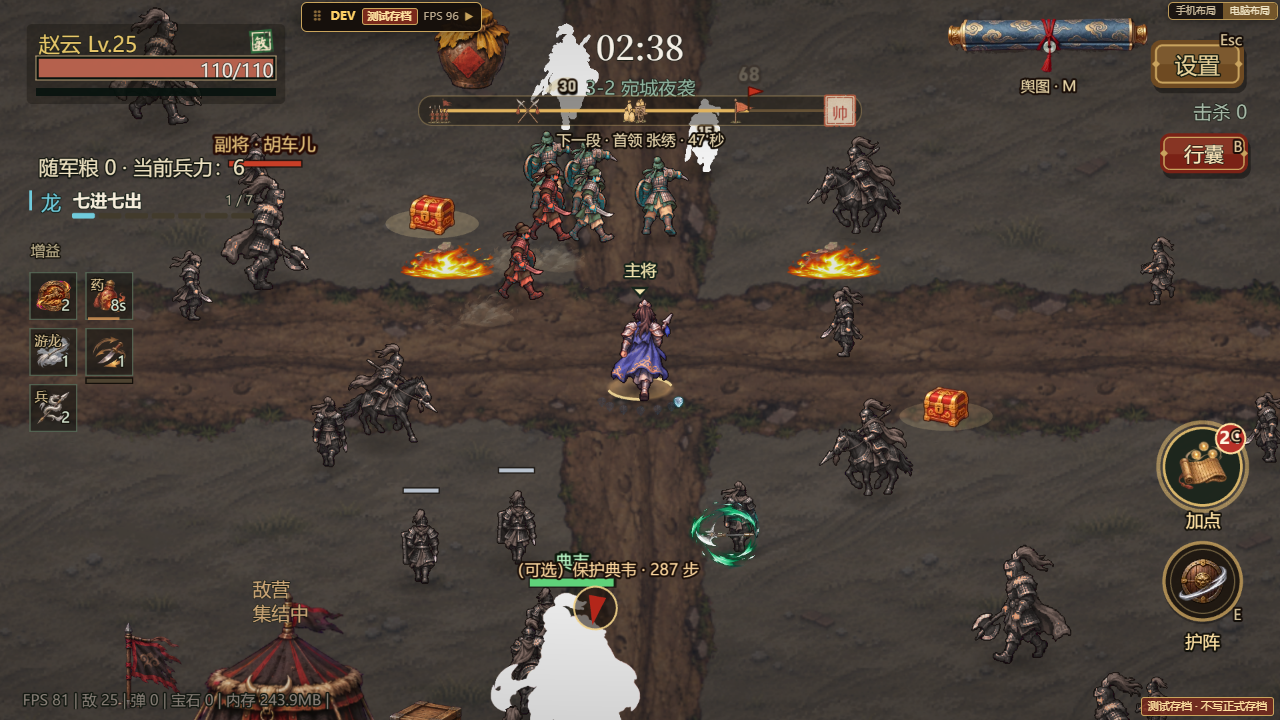
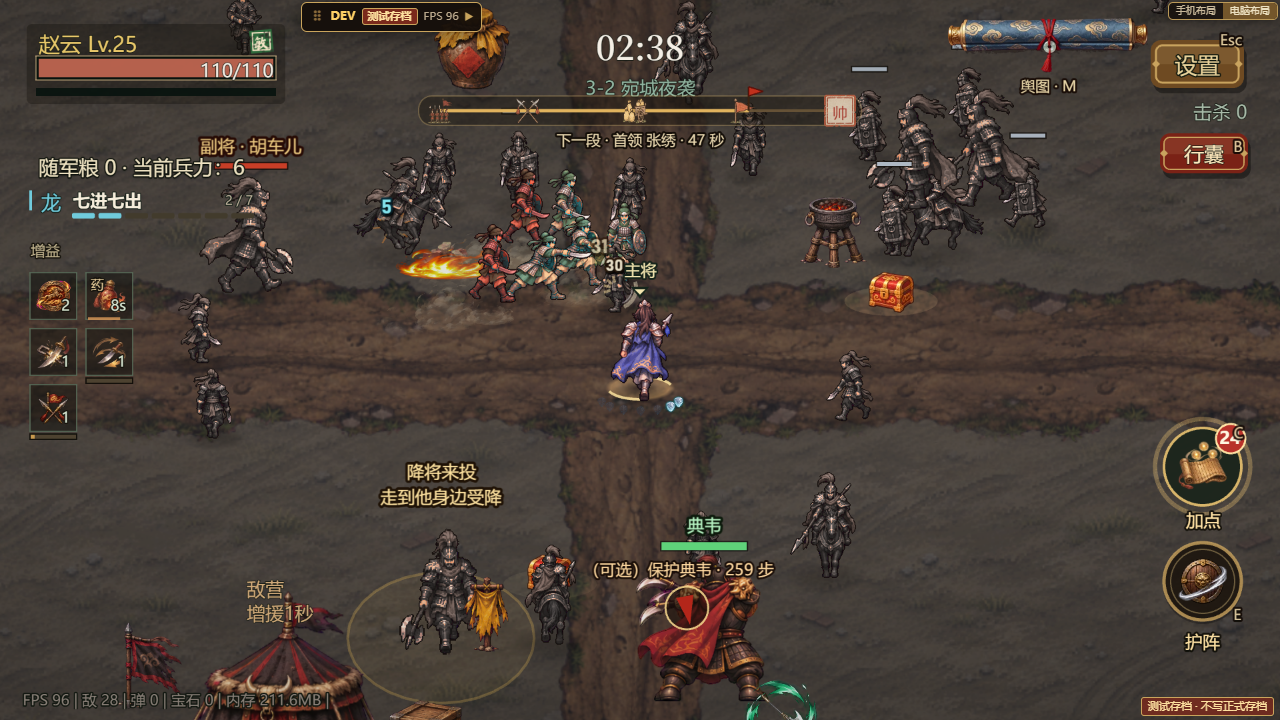
五段关 P2 战场机缘（用户批准「可以加入战场机缘」）：每关 2 次关内事件，做完弹「战场机缘 · 本关有效」三选一 - 精锐段 20 秒后「敌军粮车」（3 名守卫，站进圈里 3 秒夺下）；事件段 8 秒后「义军被围（打掉 6 名围兵，义军随你冲阵 30 秒）/ 降将来投（走到身边）/ 烽燧（站 3 秒点燃）」之一；40 秒没理会「机缘已失」 - 地上互动圈 + 进度弧、营寨道具图（粮车 + 粮袋 / 火盆 / 军旗）、降将用本章精锐图；军令表挂「机缘 · X」，屏外有箭头 - 三选一 7 种本关增益（士气如虹 / 疾行 / 固本培元 / 火攻之机 / 军令如山 / 披坚 / 鹰眼，同一张本关

diff --git a/src/systems/BattleFortunes.ts b/src/systems/BattleFortunes.ts
@@ -1,0 +1,119 @@
+import Phaser from 'phaser';
+import { DEPTH, FONT, actorDepth } from '../config';
+import { EVENT_FORTUNES, FORTUNE, FORTUNE_EVENT, type FortuneEventKind } from '../data/fortunes';
+import type { PhasePlan } from '../data/stagePhases';
+import type { Enemy } from '../entities/Enemy';
+import type { EnemyKind } from '../types';
+import { ordersOf } from './BattleOrders';
+
+/**
+ * 战场机缘事件（wave-progression-redesign.md §2.1b）：每关 2 次——精锐段的「敌军粮车」，事件段的「义军被围 / 降将来投 / 烽燧」之一。
+ * - 粮车 / 烽燧：站进圈里 3 秒；义军被围：打掉围着的敌兵（之后义军随你冲阵 30 秒）；降将：走到他身边。
+ * - 完成后由场景弹「战场机缘 · 本关有效」三选一（host.offer）；40 秒没理会就消失（「机缘已失」）。
+ * - 地上画互动圈与进度弧（Graphics，只是标记，不是特效）；道具用营寨道具图（yellow_props：粮车 + 粮袋、火盆、军旗），降将用本章精锐行走图首帧。
+ * - 军令表里挂一条「机缘」（屏外时有箭头指过去）。
+ */
+export interface FortuneHost {
+  scene: Phaser.Scene;
+  player: () => { x: number; y: number; alive?: boolean };
+  elapsed: () => number;
+  /** 场景可放东西的位置（夹进场地、避开水 / 树）。 */
+  place: (x: number, y: number) => { x: number; y: number };
+  spawn: (kind: EnemyKind, x: number, y: number) => Enemy | null;
+  escort: (x: number, y: number, n: number, ms: number) => number;
+  /** 本章精锐行走图（降将用）。 */
+  officerTexture: () => string | undefined;
+  banner: (title: string, danger: boolean, sub?: string) => void;
+  sfx: (key: string) => void;
+  /** 完成：场景在空闲时弹机缘三选一。 */
+  offer: (kind: FortuneEventKind) => void;
+}
+interface Live {
+  kind: FortuneEventKind; x: number; y: number; born: number; hold: number; done: boolean; gone: boolean;
+  guards: Array<{ e: Enemy; life: number }>;
+  ring: Phaser.GameObjects.Graphics; label: Phaser.GameObjects.Text; props: Phaser.GameObjects.GameObject[];
+}
+
+export class BattleFortunes {
+  private readonly schedule: Array<{ at: number; kind: FortuneEventKind; fired: boolean }> = [];
+  private live: Live[] = [];
+  /** 测试用。 */
+  readonly stats = { spawned: [] as string[], done: [] as string[], lost: [] as string[] };
+
+  constructor(private readonly h: FortuneHost, plan: PhasePlan, rnd: () => number = Math.random) {
+    const at = (k: string) => plan.phases.find(p => p.kind === k)?.start;
+    const elite = at('elite'), event = at('event');
+    if (elite !== undefined && plan.phases.length > 3) this.schedule.push({ at: elite + FORTUNE.cartDelay, kind: 'cart', fired: false });
+    if (event !== undefined) this.schedule.push({ at: event + FORTUNE.eventDelay, kind: EVENT_FORTUNES[Math.floor(rnd() * EVENT_FORTUNES.length)], fired: false });
+  }
+
+  private lastT = -1;
+  update(bossOn: boolean): void {
+    const t = this.h.elapsed(), dt = this.lastT < 0 ? 0 : Math.max(0, Math.min(.1, t - this.lastT)); this.lastT = t;
+    for (const s of this.schedule) if (!s.fired && t >= s.at && !bossOn) { s.fired = true; this.spawn(s.kind); }
+    for (const L of this.live) if (!L.done && !L.gone) this.tick(L, t, dt);
+    this.live = this.live.filter(L => !L.gone);
+  }
+
+  private spawn(kind: FortuneEventKind): void {
+    const P = this.h.player(), [d0, d1] = FORTUNE.distance, a = Math.random() * Math.PI * 2, d = d0 + Math.random() * (d1 - d0);
+    const at = this.h.place(P.x + Math.cos(a) * d, P.y + Math.sin(a) * d), s = this.h.scene, ev = FORTUNE_EVENT[kind];
+    const ring = s.add.graphics().setDepth(DEPTH.ground + 3).setName('fortune-ring');
+    const label = s.add.text(at.x, at.y - 96, ev.name + '\n' + ev.hint, { fontFamily: FONT, fontSize: '13px', color: '#ffe3a0', align: 'center', resolution: 2, stroke: '#1f1206', strokeThickness: 4 }).setOrigin(.5, 1).setDepth(DEPTH.dmgText - 2).setName('fortune-label');
+    const props = this.props(kind, at.x, at.y);
+    const L: Live = { kind, x: at.x, y: at.y, born: this.h.elapsed(), hold: 0, done: false, gone: false, guards: [], ring, label, props };
+    const n = kind === 'cart' ? FORTUNE.cartGuards : kind === 'rescue' ? FORTUNE.rescueGuards : 0;
+    for (let i = 0; i < n; i++) { const g = i / n * Math.PI * 2, e = this.h.spawn(i % 3 === 2 ? 'shield' : 'infantry', at.x + Math.cos(g) * 64, at.y + Math.sin(g) * 44); if (e) L.guards.push({ e, life: e.spawnId }); }
+    this.live.push(L); this.stats.spawned.push(kind);
+    ordersOf(s)?.set('fortune-' + kind, { label: '机缘 · ' + ev.name, kind: 'side', at: () => (L.gone ? null : { x: L.x, y: L.y }) });
+    this.h.banner('战场机缘 · ' + ev.name, false, ev.hint); this.h.sfx('waveDrum');
+  }
+
+  private props(kind: FortuneEventKind, x: number, y: number): Phaser.GameObjects.GameObject[] {
+    const s = this.h.scene, out: Phaser.GameObjects.GameObject[] = [], has = s.textures.exists('yellow_props');
+    const img = (f: number, dx: number, dy: number, size: number) => { if (!has) return null; const i = s.add.image(x + dx, y + dy, 'yellow_props', f).setOrigin(.5, .9).setDisplaySize(size, size).setDepth(actorDepth(y + dy)); out.push(i); return i; };
+    if (kind === 'cart') { img(24, 0, 10, 112); img(16, -6, -14, 70); }
+    else if (kind === 'beacon') img(29, 0, 8, 96)?.setTint(0x6a6058).setName('fortune-beacon');
+    else if (kind === 'rescue') img(4, 0, 6, 84);
+    else {
+      const tex = this.h.officerTexture();
+      if (tex && s.textures.exists(tex)) { const f = s.textures.get(tex).has('down_0') ? 'down_0' : undefined; const o = s.add.image(x, y + 8, tex, f).setOrigin(.5, .92).setScale(.62).setDepth(actorDepth(y + 8)).setName('fortune-defector'); out.push(o); }
+      img(7, 34, 8, 64)?.setTint(0xf2efe6);
+    }
+    return out;
+  }
+
+  private tick(L: Live, t: number, dt: number): void {
+    const P = this.h.player(), inside = Math.hypot(P.x - L.x, P.y - L.y) <= FORTUNE.radius && P.alive !== false;
+    const guardsLeft = L.guards.filter(g => g.e.active && g.e.spawnId === g.life && g.e.hp > 0).length;
+    let ok = false, k = 0;
+    if (L.kind === 'cart' || L.kind === 'beacon') { L.hold = inside ? L.hold + dt : Math.max(0, L.hold - dt / 2); k = Math.min(1, L.hold / FORTUNE.holdSec); ok = k >= 1; }
+    else if (L.kind === 'rescue') { k = L.guards.length ? 1 - guardsLeft / L.guards.length : 1; ok = guardsLeft === 0; }
+    else { ok = inside; k = inside ? 1 : 0; }
+    // 圈与进度弧（每帧重画一个圈，成本很低）
+    const pulse = .6 + .25 * Math.sin(t * 4);
+    L.ring.clear().fillStyle(0xf0c060, .08).fillEllipse(L.x, L.y, FORTUNE.radius * 2, FORTUNE.radius * 1.4).lineStyle(2, 0xf0c060, pulse).strokeEllipse(L.x, L.y, FORTUNE.radius * 2, FORTUNE.radius * 1.4);
+    if (k > 0) { L.ring.lineStyle(5, 0xffd870, .95).beginPath(); for (let i = 0; i <= 40 * k; i++) { const a = -Math.PI / 2 + i / 40 * Math.PI * 2; const px = L.x + Math.cos(a) * FORTUNE.radius, py = L.y + Math.sin(a) * FORTUNE.radius * .7; if (i === 0) L.ring.moveTo(px, py); else L.ring.lineTo(px, py); } L.ring.strokePath(); }
+    if (L.kind === 'rescue') L.label.setText(FORTUNE_EVENT.rescue.name + '\n' + (guardsLeft ? `击退围困的敌兵 ${L.guards.length - guardsLeft}/${L.guards.length}` : ''));
+    if (ok) { this.complete(L); return; }
+    if (t - L.born > FORTUNE.lifeSec) this.lose(L);
+  }
+
+  private complete(L: Live): void {
+    L.done = true; this.stats.done.push(L.kind); const ev = FORTUNE_EVENT[L.kind], s = this.h.scene;
+    ordersOf(s)?.done('fortune-' + L.kind, ev.done);
+    if (L.kind === 'rescue') this.h.escort(L.x, L.y, FORTUNE.rescueEscort, FORTUNE.rescueEscortMs);
+    const beacon = L.props.find(o => o.name === 'fortune-beacon') as Phaser.GameObjects.Image | undefined; beacon?.clearTint();
+    this.h.sfx('gong'); this.h.offer(L.kind);
+    this.fade(L, 900);
+  }
+  private lose(L: Live): void {
+    L.done = true; this.stats.lost.push(L.kind); ordersOf(this.h.scene)?.remove('fortune-' + L.kind);
+    this.h.banner('机缘已失', false, FORTUNE_EVENT[L.kind].name + ' 已经离去'); this.fade(L, 600);
+  }
+  private fade(L: Live, delay: number): void {
+    const s = this.h.scene, objs = [L.ring, L.label, ...L.props];
+    s.tweens.add({ targets: objs, alpha: 0, delay, duration: 700, onComplete: () => { for (const o of objs) o.destroy(); L.gone = true; ordersOf(s)?.remove('fortune-' + L.kind); } });
+  }
+  clear(): void { for (const L of this.live) { L.ring.destroy(); L.label.destroy(); for (const o of L.props) o.destroy(); ordersOf(this.h.scene)?.remove('fortune-' + L.kind); } this.live = []; }
+}

diff --git a/src/scenes/GameScene.ts b/src/scenes/GameScene.ts
@@ -106,6 +106,9 @@ import { allocateHeroAttr, claimFirstClear, creditHeroXp, enlistHero, heroFreePo
 import { HERO_XP_RATE, OVERFLOW_XP_PER_GRAIN, PICK_GUARANTEE, PICK_PACE } from '../data/heroLevels';
 import { CHAPTER_INDEX, PHASES, buildPhasePlan, phasedPace, type PhaseKind, type PhasePlan } from '../data/stagePhases';
 import { StagePhaseRunner } from '../systems/StagePhases';
+import { BattleFortunes } from '../systems/BattleFortunes';
+import { FORTUNE_EVENT, rollFortuneBuffs, type FortuneEventKind } from '../data/fortunes';
+import { applyStageBuff, clearStageBuffs } from '../systems/StageBuffs';
 import { BattleTrack } from '../ui/BattleTrack';
 import { addProvisions, gainProvisions } from '../world/WorldStore';
 import { medicChapter } from '../data/campMedic';
@@ -663,6 +666,10 @@ export class GameScene extends Phaser.Scene {
   private phasedFor: ChapterDef | null = null;
   protected phaseRunner: StagePhaseRunner | null = null;
   protected battleTrack: BattleTrack | null = null;
+  /** 战场机缘（P2）：关内事件、待弹的机缘三选一、本关已拿的增益次数。 */
+  protected fortunes: BattleFortunes | null = null;
+  private fortuneQueue: FortuneEventKind[] = [];
+  private fortuneTaken: Record<string, number> = {};
   protected bossWarned = false;
   protected chargeGfx!: Phaser.GameObjects.Graphics;
   protected resultPanel!: Phaser.GameObjects.Container;
@@ -979,7 +986,7 @@ export class GameScene extends Phaser.Scene {
   }
 
   protected resetState(): void {
-    this.phaseRunner?.clear();this.battleTrack?.destroy();this.phaseRunner=null;this.battleTrack=null;this.phasePlan=null;this.phasedFor=null;
+    this.phaseRunner?.clear();this.battleTrack?.destroy();this.phaseRunner=null;this.battleTrack=null;this.phasePlan=null;this.phasedFor=null;this.fortunes?.clear();this.fortunes=null;this.fortuneQueue=[];this.fortuneTaken={};
     this.relicWaves=[];this.runMerit={elite:0,boss:0};this.picksGiven=0;this.militaryPending=0; // 场景实例会被重复使用：每场重置
     this.firstBossAt=-1;this.settledFrontlineKills=0;this.frontlineNextSettlement=1;this.frontlineVictories.clear();this.frontlineStarts.clear();this.chasingBosses=[];this.deadBossControllers=[];for(const c of this.bossChests)c.clear();this.bossChests=[];this.lootContinue=null;this.relicHits=0;this.relicFireAt=0;this.relicHealAt=0;
     this.rerolls=0;this.warfeedCount=0;this.pointsButton=undefined;this.pointsBadge=undefined;this.potionButton=undefined;this.potionBadge=undefined;this.potionIcon=undefined;this.potionGlow=undefined;this.rerollButton=undefined;
@@ -1125,7 +1132,11 @@ export class GameScene extends Phaser.Scene {
       if (nextWave > 0 && this.chapter.recruitWaves.includes(nextWave)) this.scheduleRecruit();
       if (nextWave > 0) { const ws = this.pickWaves(); this.ensurePicks(ws[Math.min(nextWave, ws.length) - 1]); }
     }
-    if (this.phasePlan) { this.phaseRunner?.update(); this.battleTrack?.update(this.elapsed, Math.max(0, this.waveIndex), this.bossSpawned, this.chapter.bossName); }
+    if (this.phasePlan) {
+      this.phaseRunner?.update(); this.battleTrack?.update(this.elapsed, Math.max(0, this.waveIndex), this.bossSpawned, this.chapter.bossName);
+      if (this.mode === 'none' && !this.over) this.fortunes?.update(this.bossSpawned);
+      if (this.fortuneQueue.length && this.mode === 'none' && !this.over && this.player?.alive) this.openFortune(this.fortuneQueue.shift()!);
+    }
     if (!this.over && !this.objective && this.elapsed >= chapterBossTime(this.chapter) - 10 && !this.bossWarned) {
       this.bossWarned = true;
       this.showWaveBanner(`${this.chapter.bossName}即将登场！`, true);
@@ -3632,6 +3643,8 @@ export class GameScene extends Phaser.Scene {
   private applyPhases(): void {
     if (this.chapter === this.phasedFor) return;
     this.phaseRunner?.clear(); this.battleTrack?.destroy(); this.phaseRunner = null; this.battleTrack = null; this.phasePlan = null;
+    // 换关（战线推进 / 子类换关）：上一关的机缘事件与本关增益一并撤掉
+    this.fortunes?.clear(); this.fortunes = null; this.fortuneQueue = []; this.fortuneTaken = {}; if (this.player) clearStageBuffs(this.player);
     if (this.phaseEligible()) {
       const base = this.chapter, plan = buildPhasePlan(this.hardKey(), this.hardStage(), base.waves, base.bossName), g = base.growth;
       this.chapter = { ...base, waves: plan.waves, pace: phasedPace(base.pace, chapterBossTime(base), plan.bossAt), growth: { hp: g?.hp ?? 1, damage: g?.damage ?? 1, bossHp: (g?.bossHp ?? 1) * PHASES.bossHp } };
@@ -3651,9 +3664,29 @@ export class GameScene extends Phaser.Scene {
         },
       }, plan);
       this.battleTrack = new BattleTrack(this, plan);
+      this.fortunes = new BattleFortunes({
+        scene: this, player: () => this.player, elapsed: () => this.elapsed,
+        place: (x, y) => { let p = { x, y }; if (this.arena) p = this.arena.clampPoint(p.x, p.y); if (this.terrain) p = this.terrain.free(p.x, p.y, 48); return p; },
+        spawn: (kind, x, y) => this.spawnEnemy(kind, x, y, this.chapter.hpScale(this.elapsed), true),
+        escort: (x, y, n, ms) => this.reinforcePush().spawnEscortAt(x, y, n, ms)?.members.length ?? 0,
+        officerTexture: () => this.chapter.enemies.elite.walkVisual?.texture ?? 'enemy_officer_walk_sheet',
+        banner: (t, d, c) => this.showWaveBanner(t, d, c), sfx: k => this.sfx.play(k),
+        offer: k => { this.fortuneQueue.push(k); },
+      }, plan);
       this.hudTexts.wave.setVisible(false);
     } else this.hudTexts.wave.setVisible(true);
     this.phasedFor = this.chapter;
+  }
+  /** 战场机缘三选一：三张「本关有效」增益（走 bossloot 面板：选完即回战斗，不占保底次数）。 */
+  protected openFortune(kind: FortuneEventKind): void {
+    const buffs = rollFortuneBuffs(this.fortuneTaken); if (!buffs.length) return;
+    this.sfx.level();
+    (this.levelPanel.getByName('upgrade-title') as Phaser.GameObjects.Text)?.setText('战场机缘 · ' + FORTUNE_EVENT[kind].done);
+    (this.levelPanel.getByName('upgrade-points-hint') as Phaser.GameObjects.Text)?.setVisible(true).setText('三选一 · 只在本关有效');
+    this.upgradeOptions = buffs.map(b => ({ id: b.id, name: b.name, desc: b.desc, kind: 'foundation' as const, icon: b.icon, categoryLabel: '战场机缘 · 本关有效',
+      apply: () => { applyStageBuff(this.player, s => b.apply(s, this.player.maxHp)); if (b.now === 'heal15') this.player.heal(Math.round(this.player.maxHp * .15)); this.fortuneTaken[b.id] = (this.fortuneTaken[b.id] ?? 0) + 1; } }));
+    this.lootContinue = () => { this.setMode('none'); this.resumePendingChoices(); };
+    this.renderCards(); this.setMode('bossloot');
   }
   protected ensurePicks(target: number, force = false): void {
     if (this.over || !this.player?.alive) return;

diff --git a/src/data/fortunes.ts b/src/data/fortunes.ts
@@ -1,0 +1,55 @@
+import type { PlayerStats } from '../types';
+
+/**
+ * 战场机缘（wave-progression-redesign.md §2.1b，2026-11-19 用户批准「可以加入战场机缘」）：
+ * 每关 2 次关内事件，做完弹一次「本关有效」的三选一。增益只改本关：记在 player.stageDelta，征程构筑存档时扣掉（CharmEffects.statsWithoutCharms），
+ * 战线推进到下一关时撤销。数值是初值，交平衡会话复核。
+ */
+export type FortuneEventKind = 'cart' | 'rescue' | 'defector' | 'beacon';
+export const FORTUNE = {
+  /** 第 1 次：精锐段开始后多少秒出现粮车；第 2 次：事件段开始后多少秒出现本关事件。 */
+  cartDelay: 20, eventDelay: 8,
+  /** 离主将的距离（地图像素）。 */
+  distance: [240, 320] as readonly [number, number],
+  /** 互动圈半径；站满秒数（粮车 / 烽火）。 */
+  radius: 70, holdSec: 3,
+  /** 没去理会：多少秒后消失（「机缘已失」）。 */
+  lifeSec: 40,
+  /** 粮车守卫 / 被围义军外的敌兵数。 */
+  cartGuards: 3, rescueGuards: 6,
+  /** 解救义军：随你冲阵的人数与时长。 */
+  rescueEscort: 5, rescueEscortMs: 30000,
+  /** 同一张增益本关最多拿几次。 */
+  maxSame: 2,
+} as const;
+
+export const FORTUNE_EVENT: Record<FortuneEventKind, { name: string; hint: string; done: string }> = {
+  cart: { name: '敌军粮车', hint: '站进圈里 3 秒夺下粮车', done: '夺下粮车' },
+  rescue: { name: '义军被围', hint: '击退围困的敌兵', done: '义军脱困 · 随你冲阵' },
+  defector: { name: '降将来投', hint: '走到他身边受降', done: '受降' },
+  beacon: { name: '烽燧', hint: '站进圈里 3 秒点燃烽火', done: '烽火燃起' },
+};
+
+export interface FortuneBuff {
+  id: string; name: string; desc: string; /** 卡面图标（升级图标 growth_icon_*）。 */ icon: string;
+  /** 改本关属性（返回后由场景记下差值，好在关末撤销）。 */
+  apply: (s: PlayerStats, maxHp: number) => void;
+  /** 选完立即生效的额外效果（回血等，不需撤销）。 */
+  now?: 'heal15';
+}
+export const FORTUNE_BUFFS: readonly FortuneBuff[] = [
+  { id: 'f_morale', icon: 'growth_icon_might', name: '士气如虹', desc: '本关伤害 +15%', apply: s => { s.damageMul *= 1.15; } },
+  { id: 'f_swift', icon: 'growth_icon_wind_boots', name: '疾行', desc: '本关移速 +12%\n拾取范围 +40%', apply: s => { s.moveMul *= 1.12; s.pickupRadius *= 1.4; } },
+  { id: 'f_vigor', icon: 'growth_icon_constitution', name: '固本培元', desc: '本关生命上限 +15%\n并立即回复 15% 生命', apply: (s, hp) => { s.maxHpBonus += Math.round(hp * .15); }, now: 'heal15' },
+  { id: 'f_fire', icon: 'growth_icon_wildfire', name: '火攻之机', desc: '本关火焰伤害 +25%\n火焰范围 +15%', apply: s => { s.fireMul *= 1.25; s.fireAreaMul *= 1.15; } },
+  { id: 'f_orders', icon: 'growth_icon_quickness', name: '军令如山', desc: '本关技能冷却 −10%', apply: s => { s.cooldownMul *= .9; } },
+  { id: 'f_armor', icon: 'growth_icon_heart_mirror', name: '披坚', desc: '本关受到伤害 −12%', apply: s => { s.damageTakenMul *= .88; } },
+  { id: 'f_eagle', icon: 'growth_icon_critical', name: '鹰眼', desc: '本关暴击率 +8%', apply: s => { s.critChance += .08; } },
+];
+/** 从可选的增益里抽 3 张不同的（同一张本关已拿满 maxSame 次的不出）。 */
+export function rollFortuneBuffs(taken: Readonly<Record<string, number>>, rnd: () => number = Math.random): FortuneBuff[] {
+  const pool = FORTUNE_BUFFS.filter(b => (taken[b.id] ?? 0) < FORTUNE.maxSame).map(b => ({ b, k: rnd() }));
+  return pool.sort((x, y) => x.k - y.k).slice(0, 3).map(x => x.b);
+}
+/** 第 2 次机缘（事件段）从这几种里随机。 */
+export const EVENT_FORTUNES: readonly FortuneEventKind[] = ['rescue', 'defector', 'beacon'];

diff --git a/src/systems/StageBuffs.ts b/src/systems/StageBuffs.ts
@@ -1,0 +1,30 @@
+import type { PlayerStats } from '../types';
+
+/**
+ * 本关有效的增益（战场机缘，wave-progression-redesign.md §2.1b）：记下每次改了 player.stats 多少，
+ * 关末 / 战线推进时撤销；征程构筑存档（statsWithoutCharms）时扣掉，不会带到下一关。
+ * 倍率类按「乘了多少」记、加法类按「加了多少」记（同信物 CharmEffects 的做法）。
+ */
+const MUL: ReadonlyArray<keyof PlayerStats> = ['damageMul', 'cooldownMul', 'moveMul', 'pickupRadius', 'meleeMul', 'arrowMul', 'fireMul', 'fireAreaMul', 'damageTakenMul'];
+const ADD: ReadonlyArray<keyof PlayerStats> = ['critChance', 'regen', 'armor', 'maxHpBonus'];
+interface Delta { mul: Partial<Record<keyof PlayerStats, number>>; add: Partial<Record<keyof PlayerStats, number>> }
+const DELTAS = new WeakMap<object, Delta>();
+
+/** 对 holder.stats 执行 fn，并记下差值。 */
+export function applyStageBuff(holder: { stats: PlayerStats }, fn: (s: PlayerStats) => void): void {
+  const before = { ...holder.stats }; fn(holder.stats);
+  const d = DELTAS.get(holder) ?? { mul: {}, add: {} };
+  for (const k of MUL) if (holder.stats[k] !== before[k] && before[k] !== 0) d.mul[k] = (d.mul[k] ?? 1) * holder.stats[k] / before[k];
+  for (const k of ADD) if (holder.stats[k] !== before[k]) d.add[k] = (d.add[k] ?? 0) + holder.stats[k] - before[k];
+  DELTAS.set(holder, d);
+}
+/** 从一份属性里扣掉本关增益（存档用，不改 holder 本身）。 */
+export function stripStageBuffs(stats: PlayerStats, holder: object): PlayerStats {
+  const d = DELTAS.get(holder); if (!d) return stats;
+  for (const k of MUL) if (d.mul[k]) stats[k] /= d.mul[k]!;
+  for (const k of ADD) if (d.add[k]) stats[k] -= d.add[k]!;
+  return stats;
+}
+/** 撤销本关增益（战线推进到下一关 / 关末）。 */
+export function clearStageBuffs(holder: { stats: PlayerStats }): void { stripStageBuffs(holder.stats, holder); DELTAS.delete(holder); }
+export function hasStageBuffs(holder: object): boolean { return DELTAS.has(holder); }

diff --git a/src/systems/CharmEffects.ts b/src/systems/CharmEffects.ts
@@ -12,6 +12,7 @@ import type { ItemInstance } from '../data/items';
 import type { PlayerStats } from '../types';
 import type { Player } from '../entities/Player';
 import { loadout, type GearOwner } from './ItemStore';
+import { stripStageBuffs } from './StageBuffs';
 
 /** 加到 player.stats 上的量：damageMul / cooldownMul / damageTakenMul 为乘数，其余为加数。 */
 export interface CharmStatDelta { damageMul: number; cooldownMul: number; damageTakenMul: number; critChance: number; arrowMul: number; fireMul: number; fireAreaMul: number; meleeMul: number }
@@ -84,5 +85,5 @@ export function applyCharms(player: Player, items: readonly ItemInstance[]): Cha
 
 /** 不含信物加成的属性（征程构筑存档用）。 */
 export function statsWithoutCharms(player: Player): PlayerStats {
-  const stats = { ...player.stats }; const d = player.growth.charmDelta; if (d) unapply(stats, d); return stats;
+  const stats = { ...player.stats }; const d = player.growth.charmDelta; if (d) unapply(stats, d); return stripStageBuffs(stats, player); // 战场机缘的本关增益也不带走
 }
